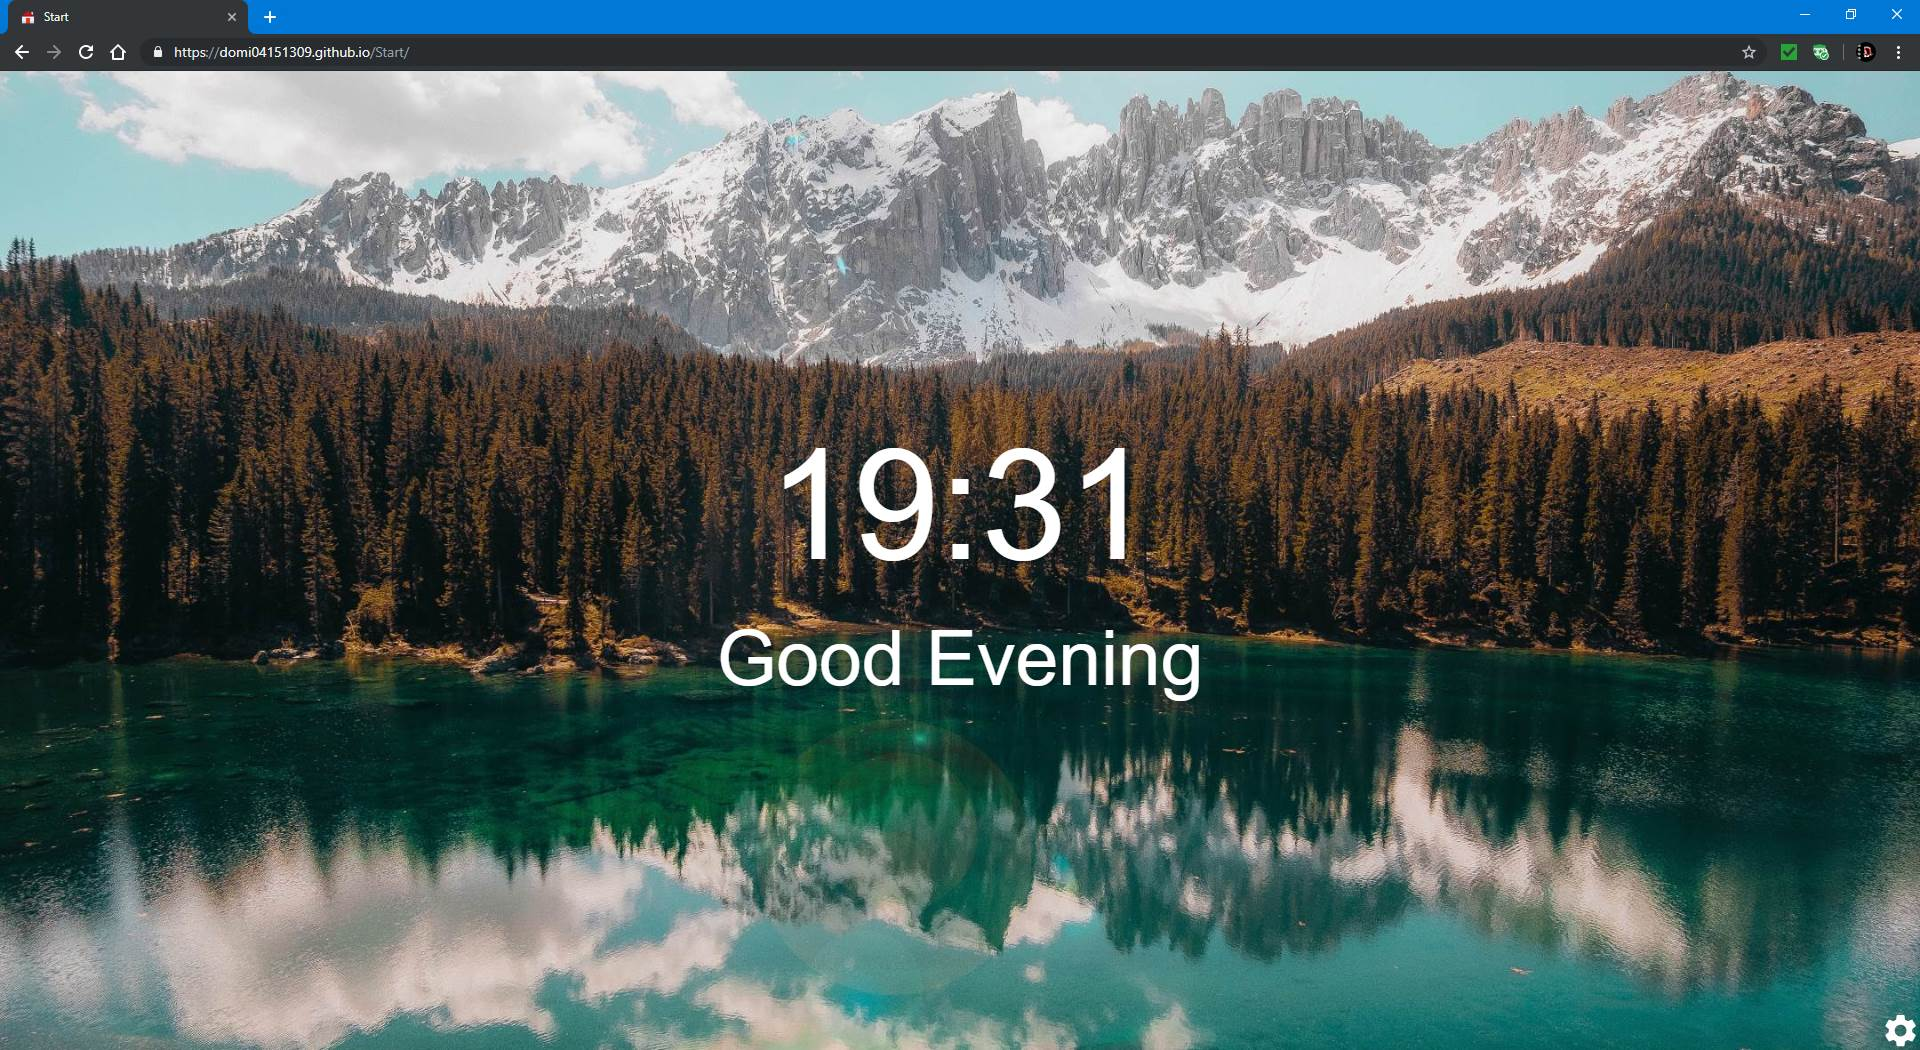
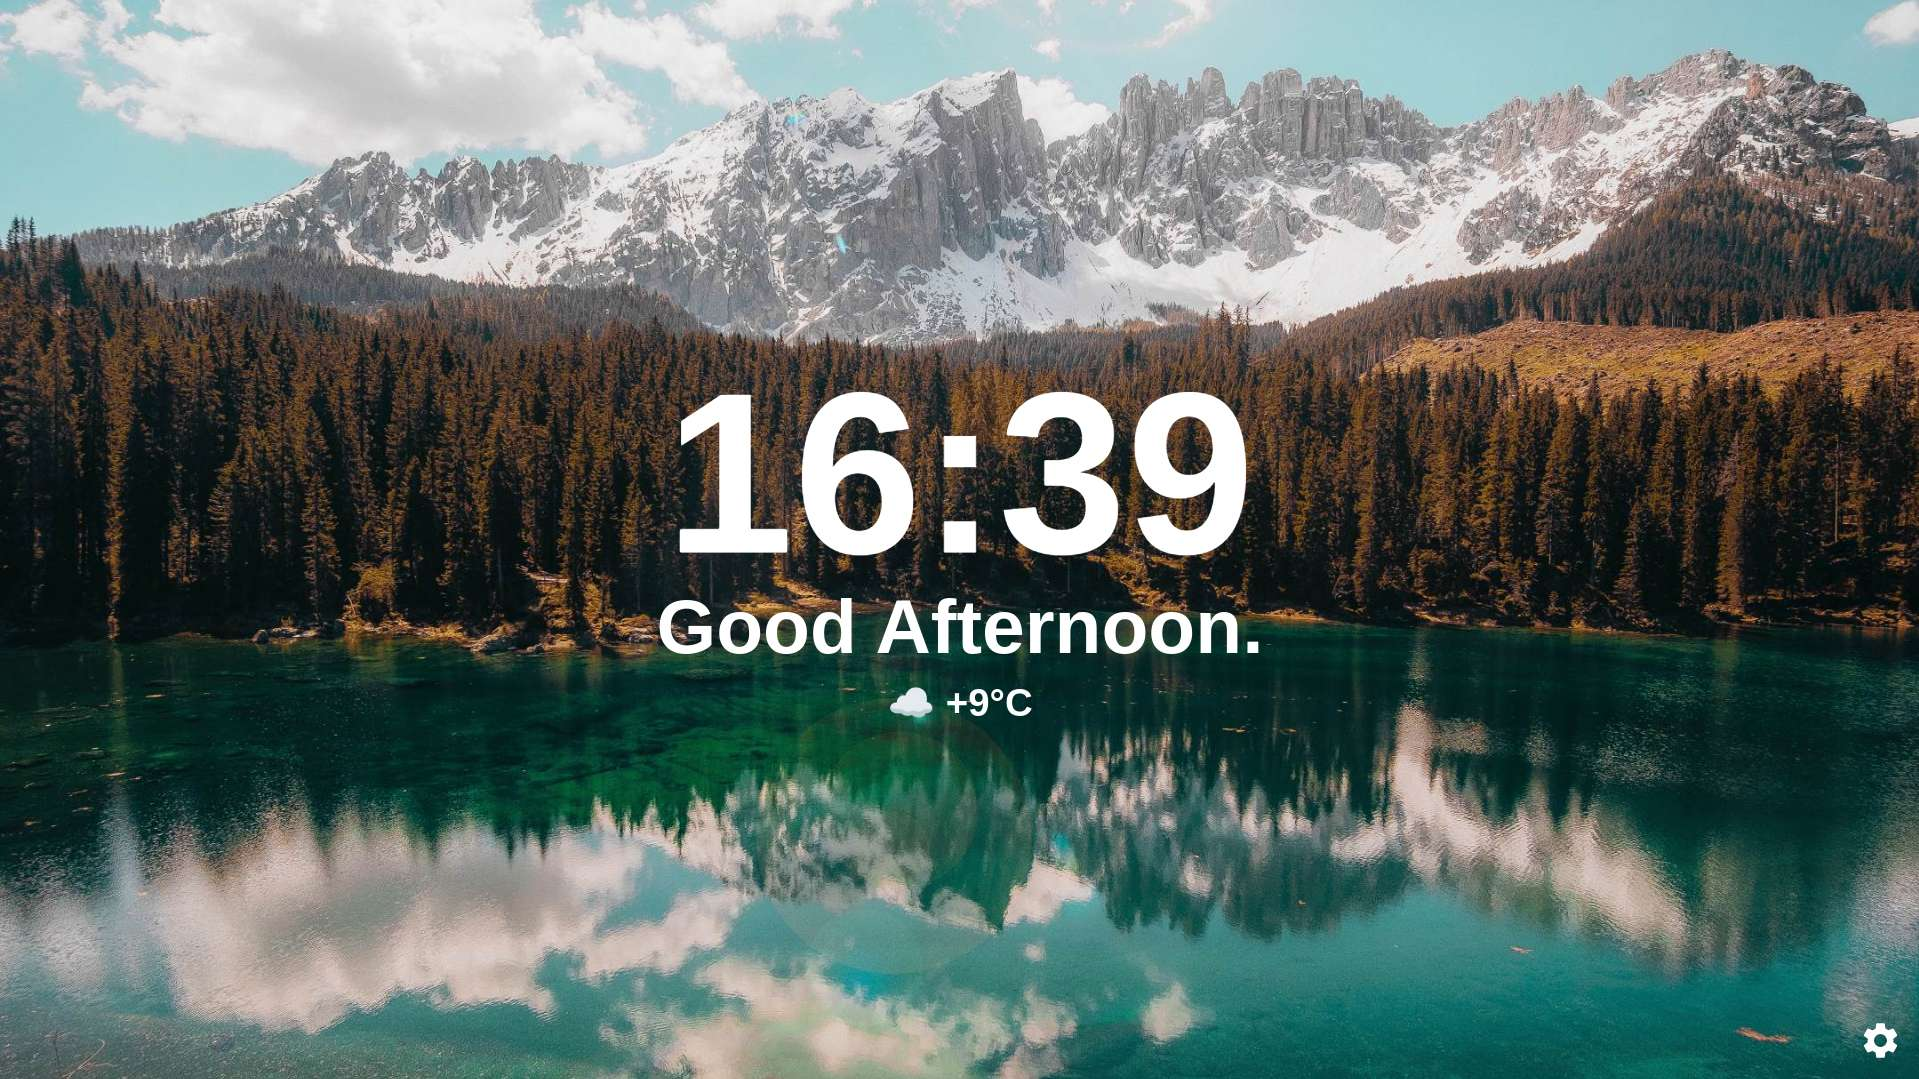
Adjust design

diff --git a/css/main.min.css b/css/main.min.css
@@ -1,1 +1,1 @@
-:root{--bg:url(../images/bg.jpg);--text-color:#fff;--blur:0;--font:sans-serif}*{margin:0}html{height:100%;font-family:var(--font);color:var(--text-color);background:#000 center/cover var(--bg) no-repeat}html::before{content:"";position:fixed;left:0;right:0;z-index:-1;display:block;background:#000 center/cover var(--bg) no-repeat;width:100%;height:100%;-webkit-filter:blur(var(--blur));-moz-filter:blur(var(--blur));-o-filter:blur(var(--blur));-ms-filter:blur(var(--blur));filter:blur(var(--blur))}body{height:100%}.center{position:absolute;top:50%;left:50%;margin-right:-50%;transform:translate(-50%,-50%);text-align:center}h1{font-size:8vw;font-weight:normal;margin:0 0 1vw}p{font-size:4vw;margin:0 0 2vw}small{font-size:2vw}#pref{position:fixed;bottom:0;right:0;width:4vh;height:4vh;margin:16px;transition:transform .8s ease-in-out}#pref:hover{transform:rotate(180deg)}
+:root{--bg:url(../images/bg.jpg);--text-color:#fff;--blur:0;--font:sans-serif}*{margin:0}html{height:100%;font-family:var(--font);color:var(--text-color);background:#000 center/cover var(--bg) no-repeat}html::before{content:"";position:fixed;left:0;right:0;z-index:-1;display:block;background:#000 center/cover var(--bg) no-repeat;width:100%;height:100%;-webkit-filter:blur(var(--blur));-moz-filter:blur(var(--blur));-o-filter:blur(var(--blur));-ms-filter:blur(var(--blur));filter:blur(var(--blur))}body{height:100%}.center{position:absolute;top:50%;left:50%;margin-right:-50%;transform:translate(-50%,-50%);text-align:center}.center>*{font-weight:bold;line-height:1}h1{font-size:12vw}p{font-size:4vw;margin:0 0 1vw}small{font-size:2vw}#pref{position:fixed;bottom:0;right:0;width:4vh;height:4vh;margin:16px;transition:transform .8s ease-in-out}#pref:hover{transform:rotate(180deg)}

diff --git a/css/main.css b/css/main.css
@@ -40,14 +40,16 @@ body {
   transform: translate(-50%, -50%);
   text-align: center;
 }
+.center > * {
+  font-weight: bold;
+  line-height: 1;
+}
 h1 {
-  font-size: 8vw;
-  font-weight: normal;
-  margin: 0 0 1vw
+  font-size: 12vw;
 }
 p {
   font-size: 4vw;
-  margin: 0 0 2vw
+  margin: 0 0 1vw
 }
 small {
   font-size: 2vw;
